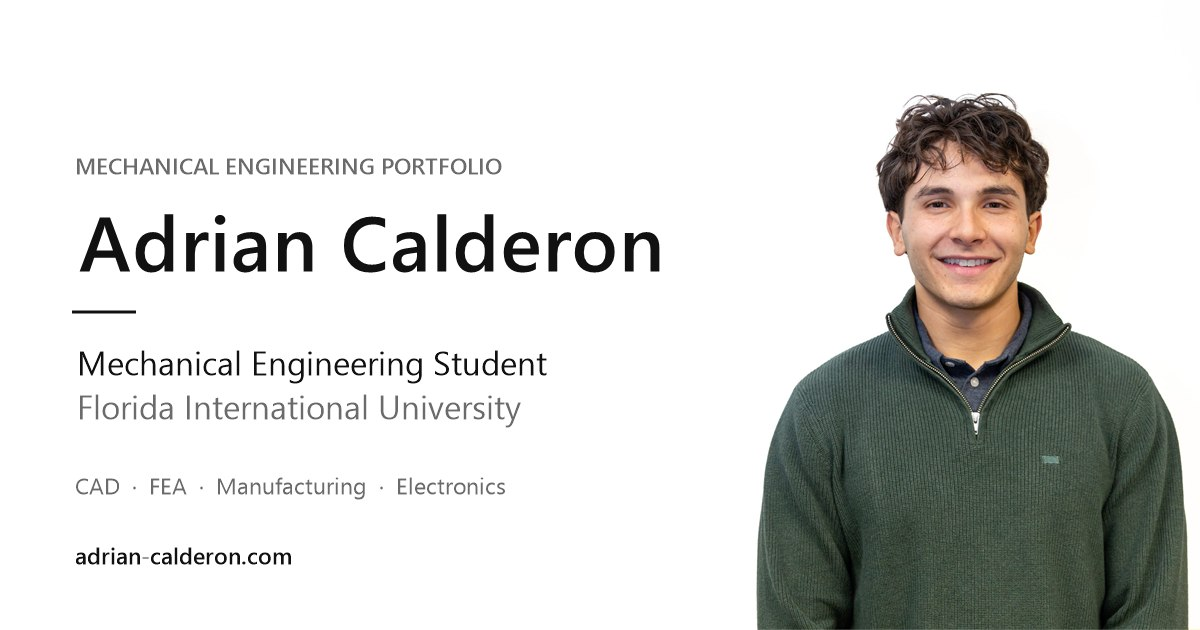
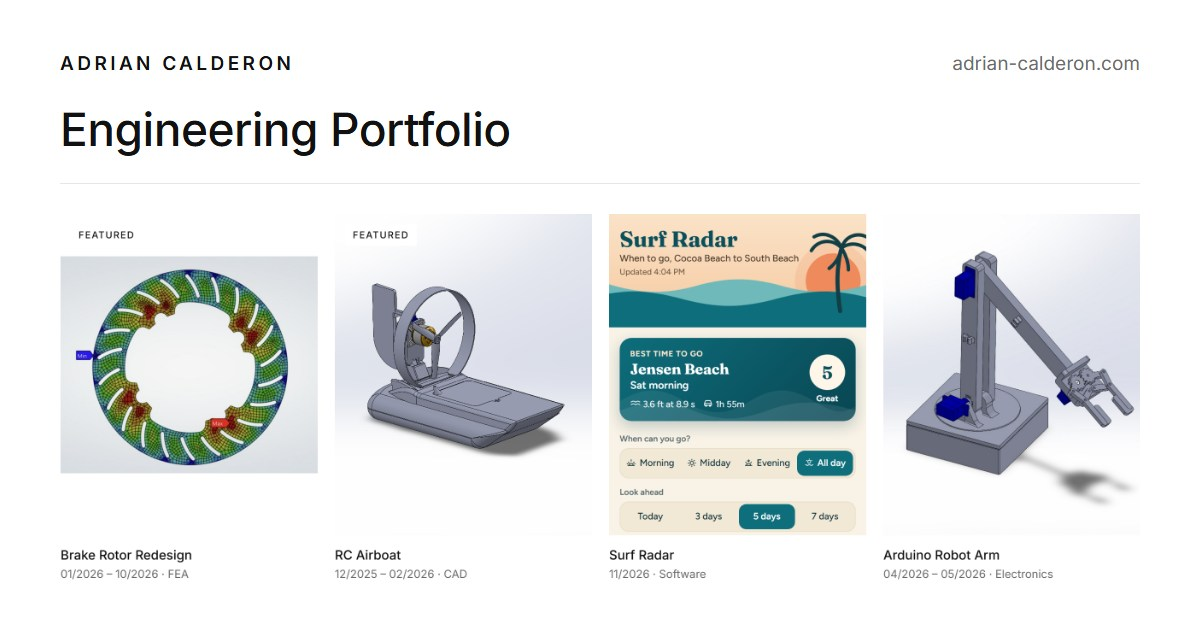
Use homepage project grid as link preview image (1200x627)

diff --git a/index.html b/index.html
@@ -12,10 +12,10 @@
   <meta property="og:title" content="Adrian Calderon · Mechanical Engineering Portfolio">
   <meta property="og:description" content="Mechanical engineering student at Florida International University. CAD, FEA, manufacturing, electronics and software projects.">
   <meta property="og:url" content="https://adrian-calderon.com/">
-  <meta property="og:image" content="https://adrian-calderon.com/assets/og-image.jpg">
+  <meta property="og:image" content="https://adrian-calderon.com/assets/og-image.jpg?v=2">
   <meta property="og:image:width" content="1200">
-  <meta property="og:image:height" content="630">
-  <meta property="og:image:alt" content="Adrian Calderon, Mechanical Engineering Portfolio">
+  <meta property="og:image:height" content="627">
+  <meta property="og:image:alt" content="Adrian Calderon engineering portfolio: brake rotor, RC airboat, surf radar and robot arm projects">
   <meta name="twitter:card" content="summary_large_image">
   <link rel="icon" href="assets/favicon.svg" type="image/svg+xml">
   <link rel="preconnect" href="https://fonts.googleapis.com">

diff --git a/about.html b/about.html
@@ -12,10 +12,10 @@
   <meta property="og:title" content="About · Adrian Calderon">
   <meta property="og:description" content="Mechanical engineering student at Florida International University: education, experience and skills.">
   <meta property="og:url" content="https://adrian-calderon.com/about.html">
-  <meta property="og:image" content="https://adrian-calderon.com/assets/og-image.jpg">
+  <meta property="og:image" content="https://adrian-calderon.com/assets/og-image.jpg?v=2">
   <meta property="og:image:width" content="1200">
-  <meta property="og:image:height" content="630">
-  <meta property="og:image:alt" content="Adrian Calderon, Mechanical Engineering Portfolio">
+  <meta property="og:image:height" content="627">
+  <meta property="og:image:alt" content="Adrian Calderon engineering portfolio: brake rotor, RC airboat, surf radar and robot arm projects">
   <meta name="twitter:card" content="summary_large_image">
   <link rel="icon" href="assets/favicon.svg" type="image/svg+xml">
   <link rel="preconnect" href="https://fonts.googleapis.com">

diff --git a/project.html b/project.html
@@ -11,10 +11,10 @@
   <meta property="og:site_name" content="Adrian Calderon">
   <meta property="og:title" content="Engineering project · Adrian Calderon">
   <meta property="og:description" content="Design, analysis and build details from Adrian Calderon's mechanical engineering portfolio.">
-  <meta property="og:image" content="https://adrian-calderon.com/assets/og-image.jpg">
+  <meta property="og:image" content="https://adrian-calderon.com/assets/og-image.jpg?v=2">
   <meta property="og:image:width" content="1200">
-  <meta property="og:image:height" content="630">
-  <meta property="og:image:alt" content="Adrian Calderon, Mechanical Engineering Portfolio">
+  <meta property="og:image:height" content="627">
+  <meta property="og:image:alt" content="Adrian Calderon engineering portfolio: brake rotor, RC airboat, surf radar and robot arm projects">
   <meta name="twitter:card" content="summary_large_image">
   <link rel="icon" href="assets/favicon.svg" type="image/svg+xml">
   <link rel="preconnect" href="https://fonts.googleapis.com">
